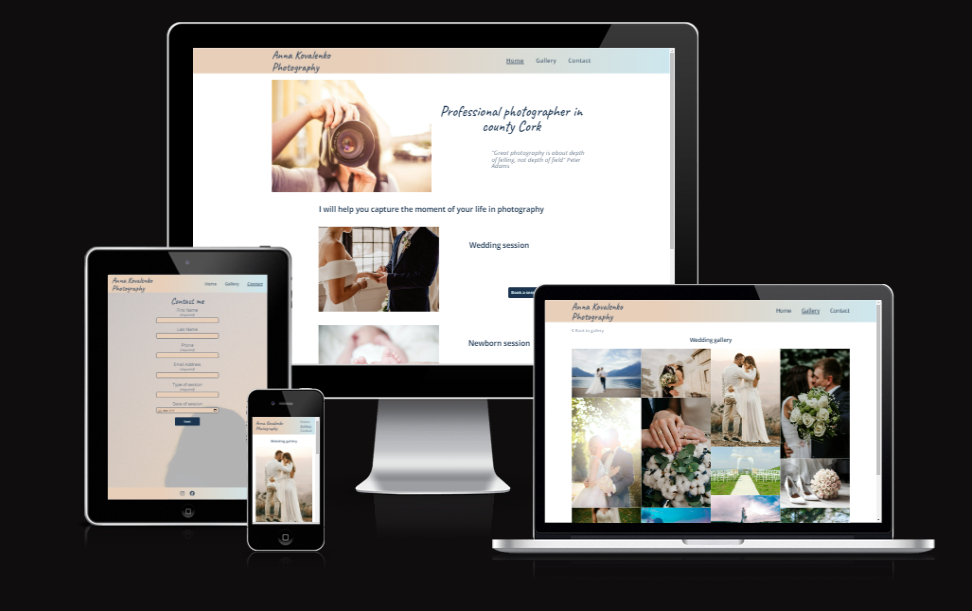
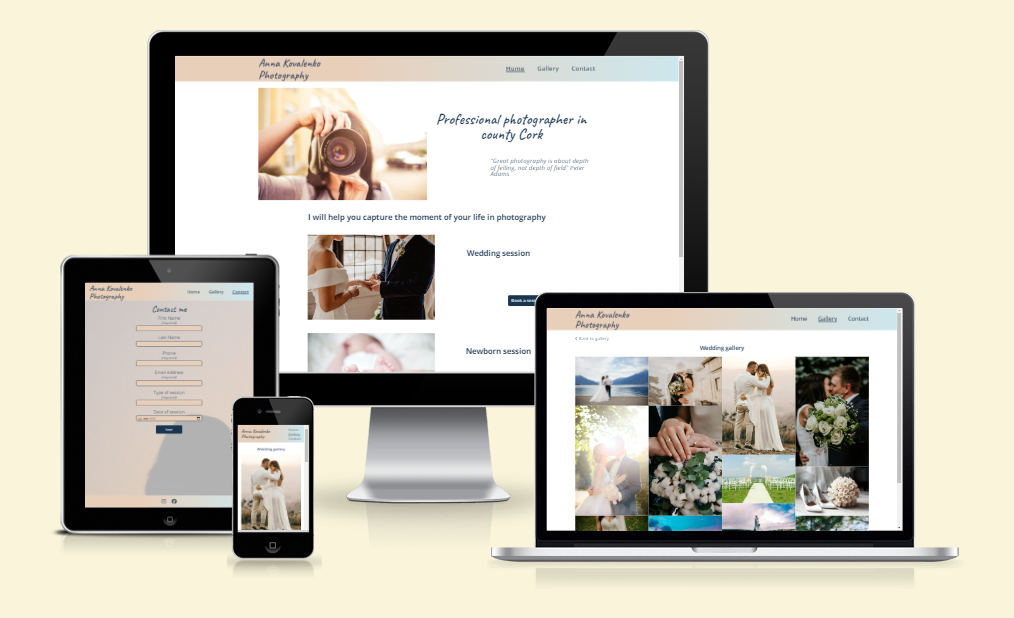
Fill out features section

diff --git a/README.md b/README.md
@@ -2,7 +2,7 @@
 
 Kovalenko photography is a website that will help people find a professional photographer for their photo shoot. The site will be targeted toward couples and families who want to capture different moments and events in their lives in photography.
 
-![Responsice Mockup](/media/mockup_white.png)
+![Responsice Mockup](/media/mockup.png)
 
 ## Features
 
@@ -12,3 +12,47 @@ Kovalenko photography is a website that will help people find a professional pho
   - This section will allow the user to easily navigate from page to page across all devices without having to revert back to the previous page via the ‘back’ button. 
 
   ![Nav Bar](/media/nav.png)
+
+  - __Introduction section__
+
+  - The introduction section includes photo of the photographer with text where the photographer works, to allow the user to see exactly which location this site would be applicable to. 
+  - This section also contains a quote that attracts the consumer's attention.
+
+  ![Intoduction section](/media/intro_section.png)
+
+  - __Services section__
+
+  - The services section will allow the user to see which type a photo session is available.
+  - From this section user will have access to two ways of possible further use of the site: 
+    1. click on the photo of the service and get acquainted with the photographer’s work in more detail;
+    2. click on the button "Book a sesion" and go to the contact me page.
+
+    ![Services section](/media/service_section.png)
+
+ - __The Footer__ 
+
+  - The footer section includes links to the photographer's relevant social media sites. The links will open to a new tab to allow easy navigation for the user. 
+  - The footer is valuable to the user as it encourages them to keep connected via social media
+
+  ![Footer section](/media/footer.png)
+
+ - __The Gallery page__ 
+
+ - The gallery will provide the user with images to see more details of the photographer’s work.
+ - The gallery page contains three albums with different types of photo shoots (wedding, newborn and family). 
+
+ ![Gallery page](/media/gallery.png)
+
+ - __The Gallery album page__
+
+- The Gallery album page contains examples of the photographer's work. 
+- This page was created to attract the attention of potential clients and further use of the photographer’s services.
+
+![The Gallery album page](/media/gallery_album.png)
+
+- __The Contact page__
+
+- This page allows the user to leave their contact information. So that the photographer can contact and discuss the details of the shooting.
+- The user will be asked to submit their full name, phone, email addressбензу ща session and data of section. Some of them are required. 
+
+![The Contact page](/media/contact_me.png)
